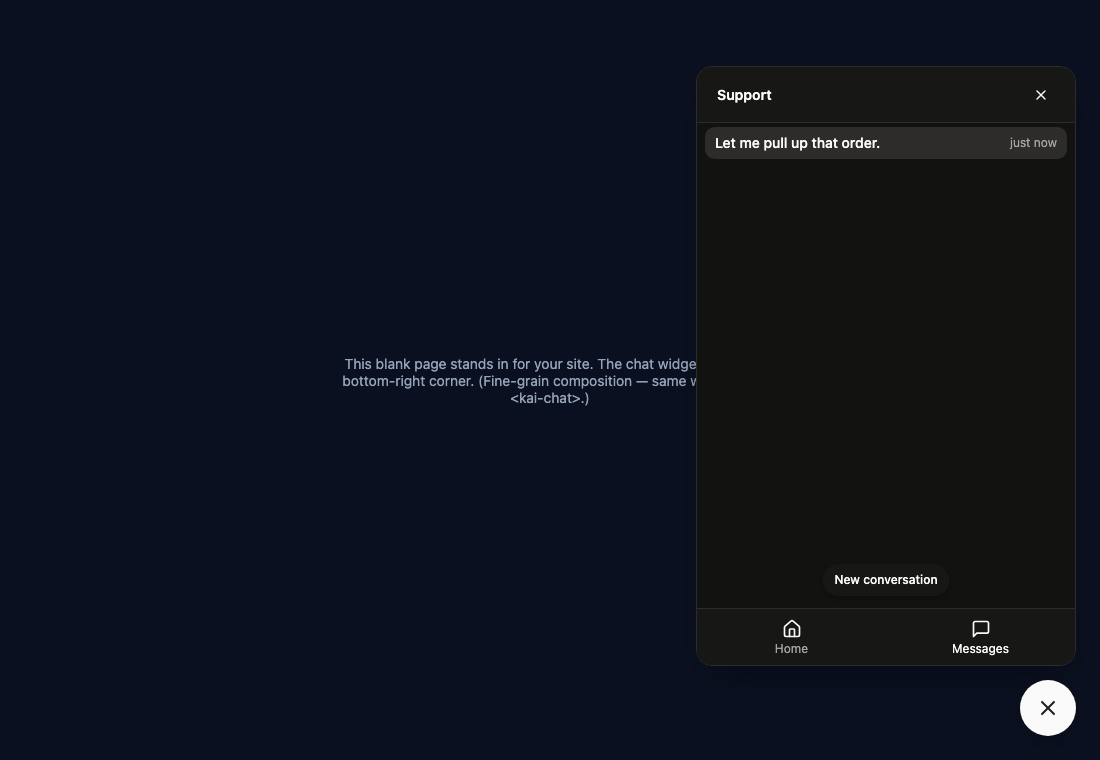
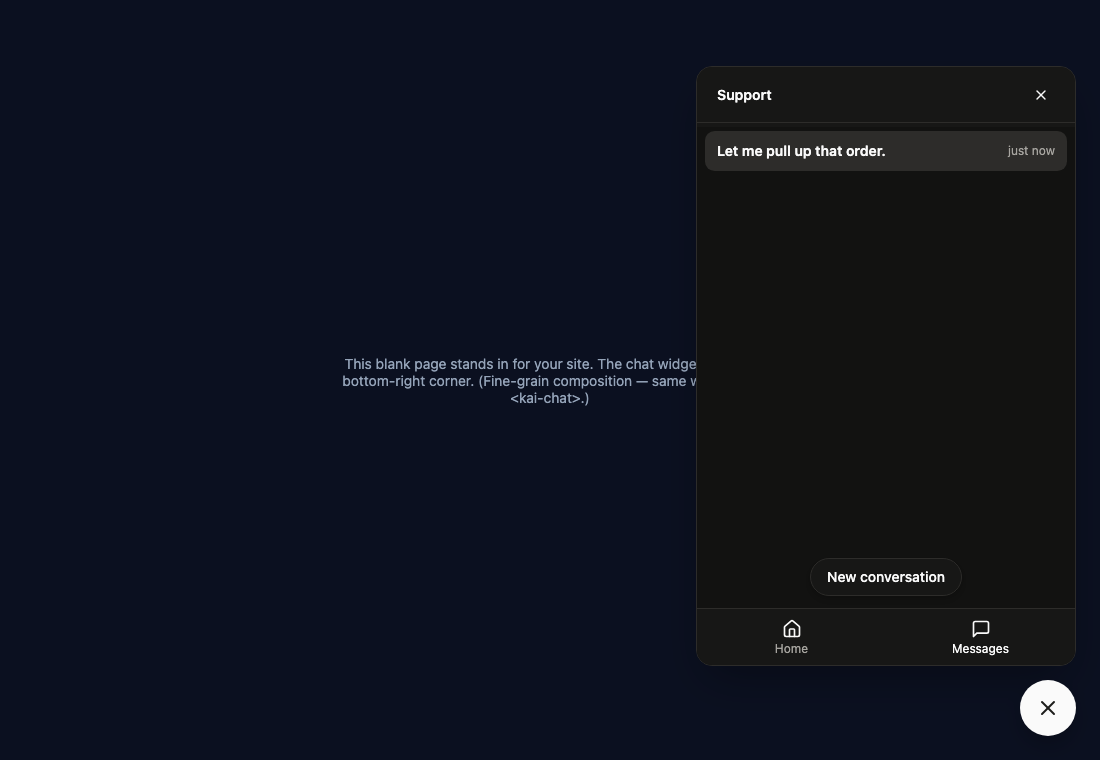
docs(superpowers): spike round-4 fidelity — closed by measurement, list rows pixel-identical
Computed-style probes on both shadow trees replaced eyeballing: facade rows
measure 40px with 12/10 padding and the fine side now matches to the pixel
(identical row rects), the New-conversation pill matched to the measured
38px/999px/shadow spec via ::part. The residue is the finding: the facade's
exact row density is a PRIVATE interior class with no prop or part, closed
only by slotted-content padding on the fine side — recorded as panel-family
evidence. LOC honestly restated: 498, ~2.7x, four fidelity passes total.

Claude-Session: https://claude.ai/code/session_01K58mYEyABM9r5t94JZUJi2

Changed region(s): [[0.6491, 0.1513, 0.9891, 0.2421], [0.7418, 0.7566, 0.8655, 0.7868]]

diff --git a/docs/superpowers/research/2026-08-31-composition-spike/cdn-widget-src/fine-accent.html b/docs/superpowers/research/2026-08-31-composition-spike/cdn-widget-src/fine-accent.html
@@ -4,10 +4,7 @@
     <meta charset="utf-8" />
     <meta name="viewport" content="width=device-width, initial-scale=1" />
     <title>fine-grain support widget — accent override</title>
-    <!-- Same accent probe as accent.html, at the fine grain. Because ALL the
-         light-DOM chrome colors resolve through theme.tokens.css from the
-         --kai-color-* knobs, this one override retints the CTA, active tab,
-         send button, launcher AND the hand-built chrome consistently. -->
+    <!-- Same accent probe as accent.html, at the fine grain. -->
     <style>
       :root {
         --kai-color-primary: oklch(0.55 0.22 320); /* magenta accent */
@@ -90,15 +87,31 @@
       .chat-view kai-thread { flex: 1; min-height: 0; display: block; }
       .chat-view kai-prompt-input { display: block; padding: 0 1rem 1rem; }
       .list-view { position: relative; }
-      .list-view kai-conversations { flex: 1; min-height: 0; display: block; }
-      .list-view .row-time { font-size: 0.75rem; color: var(--color-muted-foreground); }
-      /* The facade's floating pill: rounded-full, shadow-md, background fill. */
+      /* Round 3 spacing, matched to the facade's MEASURED list (fine-drive
+         computed styles): rows start 8px below the header (facade pt-2; the
+         item region's own py-1 gives 4, the host pads the other 4) and each
+         row reads px-3 py-2.5 x 40px tall — the item element's default
+         density is 10/8, so the slotted title/time carry the last 2px. */
+      .list-view kai-conversations { flex: 1; min-height: 0; display: block; padding-top: 4px; }
+      .list-view .row-title { display: inline-block; padding: 2px 0 2px 2px; font-weight: 600; }
+      .list-view .row-time { font-size: 0.75rem; color: var(--color-muted-foreground); padding-right: 2px; }
+      /* The facade's floating pill, matched to its MEASURED computed styles
+         (round 3): 38px tall, 8px/16px padding, 14px/500 text, rounded-full,
+         1px border-border, background fill, shadow-md. */
       .list-view .new-pill { position: absolute; bottom: 0.75rem; left: 50%; transform: translateX(-50%); }
       .list-view .new-pill::part(button) {
         border-radius: 999px;
+        height: auto;
+        padding: 0.5rem 1rem;
+        font-size: 0.875rem;
+        line-height: 1.25rem; /* measured: facade pill is 38px tall (20px line) */
+        font-weight: 500;
+        color: var(--color-foreground);
+        border: 1px solid var(--color-border);
         background: var(--color-background);
         box-shadow: 0 4px 6px -1px rgb(0 0 0 / 0.1), 0 2px 4px -2px rgb(0 0 0 / 0.1);
       }
+      .list-view .new-pill::part(button):hover { background: var(--color-muted); }
 
       /* Widget tab bar (hand-built — mirrors the facade's WidgetTabBar:
          icon-over-label columns, not kai-tabs' segmented pills; see the

diff --git a/docs/superpowers/research/2026-08-31-composition-spike/cdn-widget-src/fine.html b/docs/superpowers/research/2026-08-31-composition-spike/cdn-widget-src/fine.html
@@ -80,15 +80,31 @@
       .chat-view kai-thread { flex: 1; min-height: 0; display: block; }
       .chat-view kai-prompt-input { display: block; padding: 0 1rem 1rem; }
       .list-view { position: relative; }
-      .list-view kai-conversations { flex: 1; min-height: 0; display: block; }
-      .list-view .row-time { font-size: 0.75rem; color: var(--color-muted-foreground); }
-      /* The facade's floating pill: rounded-full, shadow-md, background fill. */
+      /* Round 3 spacing, matched to the facade's MEASURED list (fine-drive
+         computed styles): rows start 8px below the header (facade pt-2; the
+         item region's own py-1 gives 4, the host pads the other 4) and each
+         row reads px-3 py-2.5 x 40px tall — the item element's default
+         density is 10/8, so the slotted title/time carry the last 2px. */
+      .list-view kai-conversations { flex: 1; min-height: 0; display: block; padding-top: 4px; }
+      .list-view .row-title { display: inline-block; padding: 2px 0 2px 2px; font-weight: 600; }
+      .list-view .row-time { font-size: 0.75rem; color: var(--color-muted-foreground); padding-right: 2px; }
+      /* The facade's floating pill, matched to its MEASURED computed styles
+         (round 3): 38px tall, 8px/16px padding, 14px/500 text, rounded-full,
+         1px border-border, background fill, shadow-md. */
       .list-view .new-pill { position: absolute; bottom: 0.75rem; left: 50%; transform: translateX(-50%); }
       .list-view .new-pill::part(button) {
         border-radius: 999px;
+        height: auto;
+        padding: 0.5rem 1rem;
+        font-size: 0.875rem;
+        line-height: 1.25rem; /* measured: facade pill is 38px tall (20px line) */
+        font-weight: 500;
+        color: var(--color-foreground);
+        border: 1px solid var(--color-border);
         background: var(--color-background);
         box-shadow: 0 4px 6px -1px rgb(0 0 0 / 0.1), 0 2px 4px -2px rgb(0 0 0 / 0.1);
       }
+      .list-view .new-pill::part(button):hover { background: var(--color-muted); }
 
       /* Widget tab bar (hand-built — mirrors the facade's WidgetTabBar:
          icon-over-label columns, not kai-tabs' segmented pills; see the

diff --git a/docs/superpowers/research/2026-08-31-composition-spike/cdn-widget-src/fine.js b/docs/superpowers/research/2026-08-31-composition-spike/cdn-widget-src/fine.js
@@ -108,8 +108,15 @@ async function refreshSummaries() {
   for (const s of summaries) {
     const item = document.createElement('kai-conversation-item');
     item.setAttribute('conversation-id', s.id);
-    item.setAttribute('compact', ''); // round 2: the facade's list rows are the dense presentation
-    item.append(document.createTextNode(s.title));
+    // Round 3, measured (fine-drive computed styles): the facade panel row is
+    // px-3 py-2.5 (12/10px, 40px tall). This element offers compact (10/6,
+    // 32px) or default (10/8, ~36px) — neither exactly; default is nearest,
+    // and the slotted title carries the last 2px vertically (.row-title in
+    // fine.html). The exact density is a private interior class — finding.
+    const title = document.createElement('span');
+    title.className = 'row-title';
+    title.textContent = s.title;
+    item.append(title);
     // Right-aligned relative time, like the facade's rows: the `menu` slot is
     // the right-aligned region (`meta` renders UNDER the title).
     const time = document.createElement('span');

diff --git a/docs/superpowers/research/2026-08-31-composition-spike/phase3-fine-grain.md b/docs/superpowers/research/2026-08-31-composition-spike/phase3-fine-grain.md
@@ -4,7 +4,7 @@
 
 **Method:** the support widget from [phase 2](phase2-cdn.md) (`cdn-widget-src/index.html` + `app.js`) rebuilt with the facade removed: no `<kai-chat>` anywhere. The interior is composed from the public fine-grain elements — `<kai-thread>` + `<kai-prompt-input>` + `<kai-conversations>` (item mode, with `<kai-conversation-item>` rows) + `<kai-empty>` + `<kai-button>` + `<kai-icon>` — inside the same `<kai-dock>` shell (shell, not chat), glued by plain JS over the same CDN stand-in (`/kit/` = fresh `dist/`). Streaming through `/kit/state.js` + `/kit/wire.js` and the same scripted mock; persistence through the NEW `/kit/stores.js` (`localStorageStore`, `isConversationUnread`, `byRecency`). Spike ethic held strictly: documented public props/events/methods/slots only, no shadow-root reaches, no private imports; every place the public surface fell short is a numbered finding below, not a quiet hack.
 
-The work ran in **two rounds**: a feature-parity pass, then an owner side-by-side review that failed it on *fidelity* and forced a per-state visual match against the facade — see "The fidelity round" below, which is itself the strongest evidence for F-1/F-2/F-3.
+The work ran in **four passes**: a feature-parity pass, then three owner side-by-side reviews that failed it on *fidelity* and forced a per-state visual match against the facade — see "The fidelity round" below, which is itself the strongest evidence for F-1/F-2/F-3.
 
 Files: `cdn-widget-src/fine.html` + `fine.js` (open <http://localhost:8931/fine.html> on the running server), `fine-accent.html` (accent probe), `fine-drive.mjs` (the Playwright driver: it now drives **both** `index.html` and `fine.html` through the same 8-state story against a second server instance on :8942). Screenshots: `shots/facade-*` vs `shots/fine-*`, same state names (`1-closed` · `2-home` · `3-thread-empty` · `4-reply` · `5-conversations` · `6-closed-unread` · `7-reopened` · `8-new-conversation-empty`), light + dark, plus `fine-accent-*`.
 
@@ -12,7 +12,7 @@ Files: `cdn-widget-src/fine.html` + `fine.js` (open <http://localhost:8931/fine.
 
 Every item on the parity checklist was reached on the public surface, light and dark, with **zero console errors or warnings** across every driver story (facade and fine, both schemes, plus accent): launcher open/close · home tab with greeting → start-chat handoff · thread rendering the scripted mock (reasoning disclosure + text + settled `lookup_order` tool row + action bars) · streaming send round-trip · conversations list persisted via `localStorageStore` with load-on-click and new-conversation · unread badge on the closed launcher, derived from the public `isConversationUnread` · empty state via `<kai-thread slot="empty">` · dark mode · magenta accent via `--kai-color-primary` (CTA, send button, launcher — `shots/fine-accent-light-2-home.png`). Auto-restore across reload also works (`fine-drive.mjs` asserts it).
 
-The honest half of the verdict: parity cost **~2.6× the code** (475 lines vs 186 — see LOC below, which also explains why the first pass's 1.8× was an undercount), and what the extra lines buy back is not engine behavior but *product tier*: the home screen, the panel chrome, the widget tab bar, the widget-styled conversation panel, and the controller glue (view routing, store lifecycle, unread write-policy) are all facade-internal with no fine-grain element or helper behind them. The seams themselves — `state`/`wire`/`stores` driving `<kai-thread>` directly, the kai- reactivity contract, the store contract — behaved identically with the facade gone. The gaps are packaging debt, not composition debt.
+The honest half of the verdict: parity cost **~2.7× the code** (498 lines vs 186 — see LOC below, which also explains why the first pass's 1.8× was an undercount), and what the extra lines buy back is not engine behavior but *product tier*: the home screen, the panel chrome, the widget tab bar, the widget-styled conversation panel, and the controller glue (view routing, store lifecycle, unread write-policy) are all facade-internal with no fine-grain element or helper behind them. The seams themselves — `state`/`wire`/`stores` driving `<kai-thread>` directly, the kai- reactivity contract, the store contract — behaved identically with the facade gone. The gaps are packaging debt, not composition debt.
 
 A point FOR the fine grain that phase 2 couldn't claim: `fine-drive.mjs` drives the whole story through **user-level clicks on accessible names** ("Open Support", "Send us a message", "Back", "New conversation") plus documented public methods (`prompt.send()`). When you own the composition, the seams you need to automate against are yours and public. (The facade page still needs one synthetic `kai-submit` dispatch to land a reply while the dock is closed — it has no public send.)
 
@@ -39,6 +39,13 @@ A second owner side-by-side then caught four more, all fixed (round 2):
 | "New conversation" pill under-rounded vs the facade's pill | `::part(button) { border-radius: 999px; box-shadow; background }` on the light-DOM `kai-button` | public surface (`::part`) |
 | Home and Messages tab icons visibly unequal sizes | explicit `size="lg"` (20px — the facade `WidgetTabBar`'s `size-5`) on BOTH `<kai-icon>`s instead of the 16px default | public surface |
 | The list's built-in search box (was the F-8 residual; owner ruled: remove) | **KIT FIX** — no part/slot/prop could hide it, so `<kai-conversations>` gained `searchable` (default `true`, same default-true flag convention as `<kai-prompt-input attach>`); `fine.html` sets `searchable="false"` | kit change, F-8 residual CLOSED |
+
+A third owner pass caught two subtler ones, both closed by MEASURING the facade instead of eyeballing it (a probe reads computed styles off both pages' shadow trees — the driver's tooling, not the app's):
+
+| Round-3 observation | Measured | Fix | Kind |
+|---|---|---|---|
+| List spacing/padding not the facade's | facade panel row = `px-3 py-2.5` (12/10px), 40px tall, first row 8px under the header; the item element offers only compact (10/6, 32px) or default (10/8, ~36px) — the exact density is a PRIVATE interior class with no part/prop | dropped `compact`; host `padding-top: 4px`; the slotted title/time spans carry the last 2px each way. Row boxes now measure IDENTICAL (same y, same 40px height) | public surface, but only via slotted-content contortions — feeds the panel-family case |
+| "New conversation" pill still off | facade pill: 38px tall, 8/16px padding, 14px/500 over a 20px line, rounded-full, `border-border`, `bg-background`, shadow-md (it IS a text pill, not a circle icon-button); the kai-button `sm` default differs in height/weight/line | full `::part(button)` restyle to the measured values, `line-height: 1.25rem` closing the final ~1.3px | public surface (`::part`) |
 
 One recorded deviation remains: the conversation title text (observation under Findings — `localStorageStore` titles from the last message, the facade page's hand-rolled store from the first user message).
 
@@ -68,7 +75,7 @@ One recorded deviation remains: the conversation title text (observation under F
 5. **F-5 — `<kai-prompt-input>` has no `accept`.** The facade's `accept="image/*,application/pdf"` filter and its `kai-attachment-rejected` reporting are `kai-chat`-only (verified against element-meta: no such prop). Attachments still stage and submit; they cannot be narrowed at the paperclip. The documented escape (`encodableMediaTypes()` from wire + your own picker) means replacing the paperclip, not configuring it.
 6. **F-6 — unread at the finer grain: the primitive serves; the event does not exist and doesn't need to.** The facade's `kai-unread-change` has no fine-grain equivalent — and last week's parity fix turns out to be exactly what replaces it: `(await store.list()).some(isConversationUnread)` is one line, reachable with no bundler via `/kit/stores.js`, and its own JSDoc names this consumer ("any consumer-composed launcher deriving its own badge from `store.list()`"). Verified end-to-end: reply lands while the dock is closed → badge on (`shots/fine-light-6-closed-unread.png`); reopen → `markRead` → badge off (driver asserts both). The caveat is the WRITE side: the primitive covers the read, while the when-to-`markRead` policy is F-3's hand glue.
 7. **F-7 — icon names are undiscoverable and fail silent in prod.** `icon="list"` and `icon="send"` painted as the literal words "list" / "sendSend us a message" (first driver run). The curated roster (~75 names in `src/ui/icon.tsx`; no `list`, no `send`) is enumerated nowhere in `docs/web-components.md` — the prop doc says 'a named icon (e.g. "mic", "plus")' and stops. The unknown-name warning is `import.meta.env.DEV`-only, so the shipped build renders wrong with zero console output: a decide-quietly path a CDN consumer hits blind. Cheap fixes: list `ICON_NAMES` in the docs; consider the warning in prod too.
-8. **F-8 — `<kai-conversations>` is the desktop sidebar rail, not the widget conversation panel.** Its batteries mode brings sidebar furniture into a widget panel: a hamburger toggle, a "Chats" title, "N messages" sublines, and — with `groups` omitted entirely — rows still render under an "Ungrouped" section header, which reads odd when grouping was never in play (first-pass shot; looks like a small bug worth a look). The fidelity rounds reached the facade's `ConversationPanel` look by combining four escapes: **item mode** (light-DOM `<kai-conversation-item compact>` rows — no group sections; title + a right-aligned `menu`-slot time), an **empty `header` slot** (kills the toggle/"Chats"/new row), a light-DOM **"New conversation" pill** absolutely positioned over the list (`::part(button)` rounded-full, replacing `kai-new-chat`), and — the one thing NO public surface could do — the round-2 **kit fix**: a new `searchable` prop on `<kai-conversations>` (default `true`, the `<kai-prompt-input attach>` default-true flag convention; JSDoc + component test + regenerated element-meta/docs/llms-full/React wrapper), because the built-in search box had no part, slot, or prop to remove it. Spike ethic: that residual is now closed *in the kit*, not worked around. Remaining polish gap: item rows carry no unread dot; a widget `variant` on the element would still collapse most of this glue.
+8. **F-8 — `<kai-conversations>` is the desktop sidebar rail, not the widget conversation panel.** Its batteries mode brings sidebar furniture into a widget panel: a hamburger toggle, a "Chats" title, "N messages" sublines, and — with `groups` omitted entirely — rows still render under an "Ungrouped" section header, which reads odd when grouping was never in play (first-pass shot; looks like a small bug worth a look). The fidelity rounds reached the facade's `ConversationPanel` look by combining four escapes: **item mode** (light-DOM `<kai-conversation-item compact>` rows — no group sections; title + a right-aligned `menu`-slot time), an **empty `header` slot** (kills the toggle/"Chats"/new row), a light-DOM **"New conversation" pill** absolutely positioned over the list (`::part(button)` rounded-full, replacing `kai-new-chat`), and — the one thing NO public surface could do — the round-2 **kit fix**: a new `searchable` prop on `<kai-conversations>` (default `true`, the `<kai-prompt-input attach>` default-true flag convention; JSDoc + component test + regenerated element-meta/docs/llms-full/React wrapper), because the built-in search box had no part, slot, or prop to remove it. Spike ethic: that residual is now closed *in the kit*, not worked around. Round 3 added the measured-density lesson: the facade panel's exact row padding (`px-3 py-2.5`) sits in a private interior class between the element's `compact` and default densities, so matching it took host padding plus padding smuggled in on the slotted title/time spans — workable, but exactly the kind of contortion a widget `variant` (or row-density prop) would delete. Remaining polish gap: item rows carry no unread dot.
 9. **F-9 — `relativeTimeShort` is not public.** The "2m ago"/"just now" on the facade's recent card and list rows comes from a helper internal to the Solid layer; `/kit/stores.js` ships `byRecency` and `isConversationUnread` but not the time formatter that sits beside them in every rendering of a `ConversationSummary`, so `fine.js` restates it (~10 lines). Same class as F-6's read-side, one export short.
 10. **Observation — `localStorageStore` titles from the last message text at first save**, so the recent card's title and its trailing preview can be the same string (near-duplicate; the phase-2 hand-rolled store titled from the first *user* message, which read better — and this is why `facade-*-5` and `fine-*-5` shots show different row titles: it is a store-behavior difference, not a fine-grain one). The fidelity round dedupes the *display* (the preview line hides when it equals the title; list rows show title + time only), but the derivation itself is the store's call and worth revisiting.
 11. **Observation — payload: dropping the facade saves nothing.** Initial load was within ~1% of the facade autoloader page's bytes and within a handful of requests (first-pass measurement; re-run `fine-drive.mjs` for current numbers). `kai-thread` + `kai-prompt-input` pull the same bulk `kai-chat` did, and this page adds `kai-conversations` eagerly where the facade lazy-loads its list view.
@@ -82,9 +89,9 @@ One recorded deviation remains: the conversation title text (observation under F
 |---|---|---|---|
 | Facade (`index.html` + `app.js`) | 39 | 147 | **186** |
 | Fine grain, first pass (feature parity only) | 121 | 207 | **328** |
-| Fine grain, after both fidelity rounds | 218 | 257 | **475** |
+| Fine grain, after all three fidelity rounds | 234 | 264 | **498** |
 
-**~2.6×** — and the comparison still flatters the facade's JS: 45 of `app.js`'s 147 lines are the hand-rolled store that phase 2's gap forced, which `fine.js` replaces with one import from `/kit/stores.js`. Like for like (both on `stores.js`), the facade page would be ~141 lines total, putting the fine grain nearer **3.4×**. The first pass's 1.8× was an undercount by exactly the fidelity debt: matching the facade's actual navigation, tab bar, home-screen anatomy, list presentation and palette added ~150 lines across the two rounds, almost all of it chrome markup/CSS and routing glue — F-1/F-2/F-3, precisely the unpackaged product tier.
+**~2.7×** — and the comparison still flatters the facade's JS: 45 of `app.js`'s 147 lines are the hand-rolled store that phase 2's gap forced, which `fine.js` replaces with one import from `/kit/stores.js`. Like for like (both on `stores.js`), the facade page would be ~141 lines total, putting the fine grain nearer **3.5×**. The first pass's 1.8× was an undercount by exactly the fidelity debt: matching the facade's actual navigation, tab bar, home-screen anatomy, list presentation and palette added ~170 lines across the three rounds, almost all of it chrome markup/CSS and routing glue — F-1/F-2/F-3, precisely the unpackaged product tier.
 
 ## What would close the gap
 
